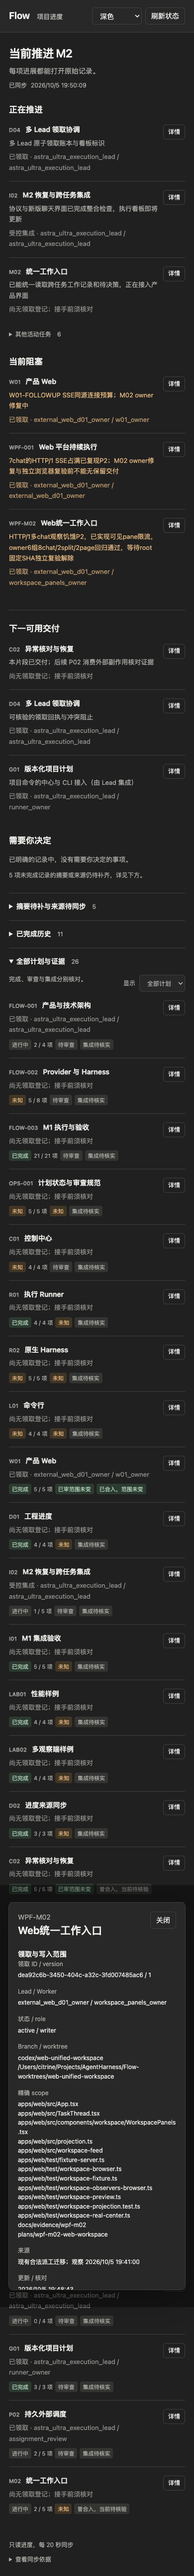
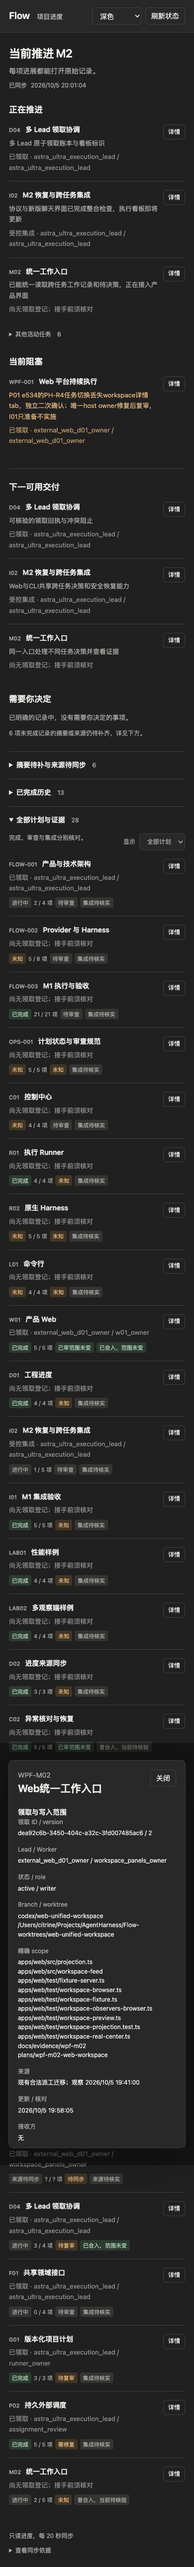
fix(dashboard): show newly claimed work and consistent human progress

diff --git a/apps/execution-dashboard/public/app.js b/apps/execution-dashboard/public/app.js
@@ -62,6 +62,14 @@ function renderSignal(selector, ids, kind, empty) {
 }
 function render() {
   const view = snapshot.overview;
+  const unregistered = snapshot.unregisteredAssignments ?? [];
+  $('#unregistered-claims').hidden = !unregistered.length;
+  $('#unregistered-claim-items').replaceChildren(...unregistered.map(claim => {
+    const row = element('article', undefined, 'task-row');
+    const copy = element('div', undefined, 'task-copy');
+    copy.append(element('h3', claim.taskId), element('p', `${claim.lead} / ${claim.worker}`), element('p', `${claim.state} · ${claim.branch} · ${claim.worktree}`, 'allocation'));
+    row.append(copy); return row;
+  }));
   $('#page-title').textContent = view.phase ? `当前推进 ${view.phase}` : '当前阶段待补';
   $('#phase-note').textContent = view.phase ? '每项进展都能打开原始记录。' : '负责人补充阶段摘要后显示；现有计划仍可查看。';
   const active = tasksFor(view.activeIds);
@@ -97,6 +105,7 @@ async function refresh() {
   } finally { $('#refresh').disabled = false; }
 }
 
+function humanSignal(value) { return value?.state === 'none' ? '无' : value?.state === 'active' ? value.text : '未知，待负责人核对'; }
 function addFact(list, label, value) { list.append(element('dt', label), element('dd', plain(value || '未知'))); }
 function openTask(id) {
   const task = snapshot?.tasks.find(task => task.id === id); if (!task) return;
@@ -106,7 +115,7 @@ function openTask(id) {
   for (const issue of task.issues) content.append(element('p', issue, 'notice warning'));
   const facts = element('dl', undefined, 'detail-facts');
   for (const [label, value] of [
-    ['Owner', task.status.owner], ['人类摘要缺口', task.status.human?.missing.join('、') || '无；摘要字段完整'], ['声明实现目标', task.status.implementation?.target], ['声明实现范围', task.status.implementation?.scopes.join('\n')], ['实现核验', JSON.stringify(task.implementationProof, null, 2)], ['Review 范围核验', JSON.stringify(task.review.proof ?? { state: '未执行', reason: '无可核验的 approval' }, null, 2)], ['工作分支', task.status.branchState], ['下一交付', task.status.next], ['阻塞 / 风险', task.status.risks], ['用户决定', task.status.decisions],
+    ['Owner', task.status.owner], ['人类摘要缺口', task.status.human?.missing.join('、') || '无；摘要字段完整'], ['声明实现目标', task.status.implementation?.target], ['声明实现范围', task.status.implementation?.scopes.join('\n')], ['实现核验', JSON.stringify(task.implementationProof, null, 2)], ['Review 范围核验', JSON.stringify(task.review.proof ?? { state: '未执行', reason: '无可核验的 approval' }, null, 2)], ['工作分支', task.status.branchState], ['下一交付', task.status.human?.next || '未知，待负责人补充'], ['当前阻塞', humanSignal(task.status.human?.blocker)], ['用户决定', humanSignal(task.status.human?.decision)], ['历史风险与技术说明', task.status.risks],
     ['检查记录', task.status.checks.record], ['审查结论', `${plain(task.review.record)}\n目标：${task.review.target ?? '未绑定提交'}`], ['main 集成记录', `${plain(task.main.record)}\n${task.main.reason}\n方法：${task.main.method}\n实现目标：${task.main.target ?? '未知'}\n现场 main：${task.main.mainHead ?? '未知'}\n观察时间：${task.main.observedAt}`],
     ['权威 status', task.source.path], ['来源模式', task.source.mode === 'live' ? '权威 worktree' : task.source.mode === 'frozen' ? `冻结旧记录 ${task.source.frozenCommit}` : '缺失'],
     ['状态更新时间', timestamp(task.status.updatedAt)], ['文件修改时间', timestamp(task.source.modifiedAt)], ['本次读取时间', timestamp(task.source.syncedAt)],

diff --git a/apps/execution-dashboard/public/index.html b/apps/execution-dashboard/public/index.html
@@ -14,6 +14,7 @@
       <section class="active-section" aria-labelledby="active-title"><h2 id="active-title">正在推进</h2><div id="active-work"></div><details id="other-activity" class="other-activity" hidden><summary>其他活动任务 <span id="other-activity-count" class="count"></span></summary><div id="other-activity-items"></div></details><div class="blocker-section"><h2>当前阻塞</h2><div id="blockers"></div></div></section>
       <aside><section aria-labelledby="next-title"><h2 id="next-title">下一可用交付</h2><div id="next-deliveries"></div></section><section class="decision-section" aria-labelledby="decision-title"><h2 id="decision-title">需要你决定</h2><div id="decisions"></div><p id="decision-note" class="muted small"></p></section></aside>
     </div>
+    <section id="unregistered-claims" hidden><h2>已领取，进度来源待登记</h2><p class="muted small">仅显示领取事实，不推断工作进度。负责人登记唯一 status 后可查看详情。</p><div id="unregistered-claim-items"></div></section>
     <details class="disclosure" id="unknown-section"><summary>摘要待补与来源待同步 <span id="unknown-count" class="count">0</span></summary><p class="muted small">这些是信息缺口，不自动代表阻塞或需要你决定。原始记录仍可查看。</p><div id="unknown-items"></div></details>
     <details class="disclosure" id="history-section"><summary>已完成历史 <span id="history-count" class="count">0</span><span class="summary-note">含 M1，默认收起</span></summary><div id="history-items"></div></details>
     <details class="disclosure" id="all-plans"><summary>全部计划与证据 <span id="source-count" class="count">0</span></summary><div class="section-heading"><p class="muted small">完成、审查与集成分别核对。</p><label class="filter-label">显示<select id="filter" aria-label="显示计划"><option value="all">全部计划</option><option value="in_progress">进行中</option><option value="unknown">摘要待补</option></select></label></div><div id="workstreams"></div><p id="empty-filter" class="empty-state" hidden>当前筛选下没有计划。</p></details>
